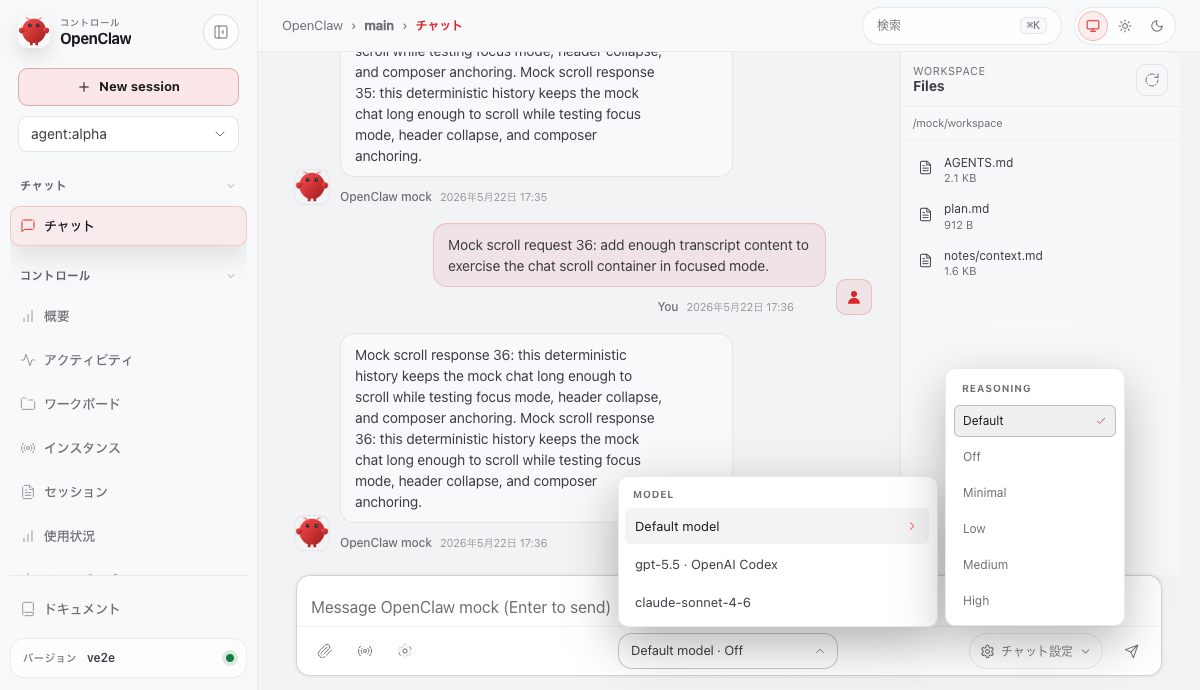
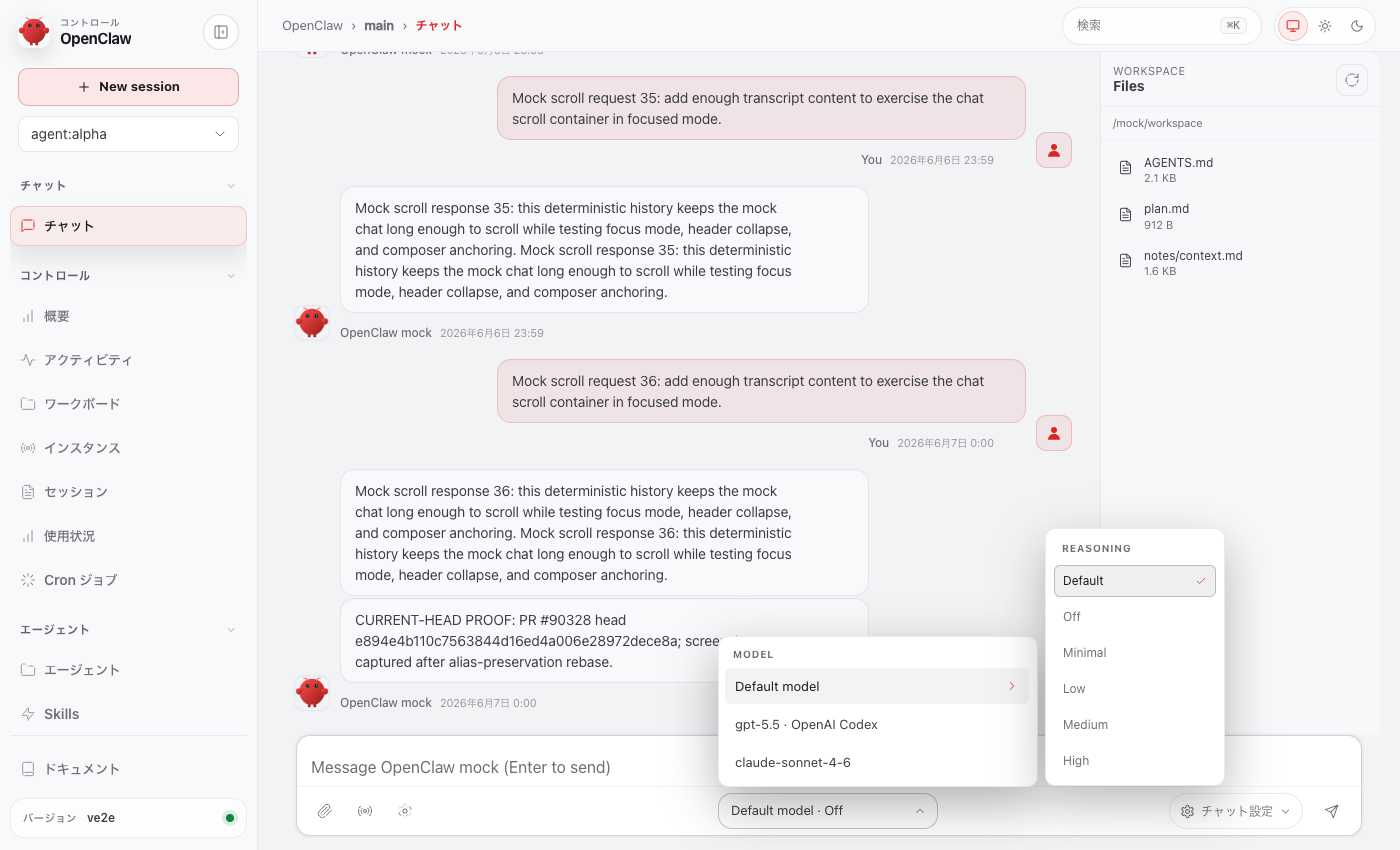
docs: refresh 90328 current-head proof artifacts

diff --git a/proof/90328/README.md b/proof/90328/README.md
@@ -1,44 +1,21 @@
 # PR #90328 current-head proof
 
-Current PR head: `e894e4b110c7563844d16ed4a006e28972dece8a`
+Current PR head verified: `93c00a0991be148f357f8b0706080883528b210d` (`Preserve explicit model aliases in picker labels`).
 
-This artifact proves the current #90328 head after the alias-preservation rebase.
+Evidence:
 
-## Files
+- `model-picker-openai-codex-current-head.png` — WebUI model picker visual proof showing `gpt-5.5 · OpenAI Codex`.
+- `models-list-current-head.json` — current-head Gateway metadata helper output showing canonical `provider: "openai"`, canonical model id `gpt-5.5`, and separate runtime metadata `agentRuntime.id = "codex"` / `label = "OpenAI Codex"`.
 
-- `model-picker-openai-codex-current-head.png` — current-head Control UI mock WebUI screenshot showing the Chat model picker option `gpt-5.5 · OpenAI Codex`.
-- `models-list-current-head.json` — current-head Gateway model metadata helper output showing canonical `id: "gpt-5.5"`, `provider: "openai"`, and `agentRuntime: { id: "codex", source: "model", label: "OpenAI Codex" }`.
+Current-head checks rerun on 2026-06-07:
 
-## Environment
-
-- Source checkout: `/tmp/openclaw-pr-90328-update`
-- Branch: `agent/xiaozhua/model-runtime-observability`
-- Head: `e894e4b110c7563844d16ed4a006e28972dece8a`
-- Mock WebUI server: `pnpm dev:ui:mock -- --host 127.0.0.1 --port 5193` (Vite bound `5194` because `5193` was occupied)
-- Screenshot automation: system Google Chrome via Playwright, no production Gateway involved.
-
-## Commands
-
-```bash
-cd /tmp/openclaw-pr-90328-update
-git rev-parse HEAD
-# e894e4b110c7563844d16ed4a006e28972dece8a
-
-pnpm dev:ui:mock -- --host 127.0.0.1 --port 5193
-# Open /chat?session=main, open the Chat model picker, verify `gpt-5.5 · OpenAI Codex`.
-
+```text
 node --import tsx /tmp/pr90328-current-head-proof/models-list-current-head.mjs
+# emitted models-list-current-head.json for head 93c00a0991be148f357f8b0706080883528b210d
+
+node scripts/run-vitest.mjs src/gateway/server-methods/models-list-result.test.ts ui/src/ui/chat-model-ref.test.ts --testNamePattern="models.list|agentRuntime|label|alias|OpenAI Codex"
+# gateway models-list-result: 10 passed
+# ui chat-model-ref focused group: 6 passed / 19 skipped
 ```
 
-The temporary mock catalog entry used for the screenshot supplied:
-
-```json
-{
-  "id": "gpt-5.5",
-  "name": "gpt-5.5",
-  "provider": "openai",
-  "agentRuntime": { "id": "codex", "label": "OpenAI Codex", "source": "configured" }
-}
-```
-
-The PR worktree was restored after capture; these proof files live only on this proof branch.
+The screenshot artifact is the visual model-picker proof for the same `gpt-5.5 · OpenAI Codex` UI behavior; current-head runtime metadata and UI label/alias behavior were revalidated with the helper and focused tests above after rebasing to `93c00a0991be148f357f8b0706080883528b210d`.
